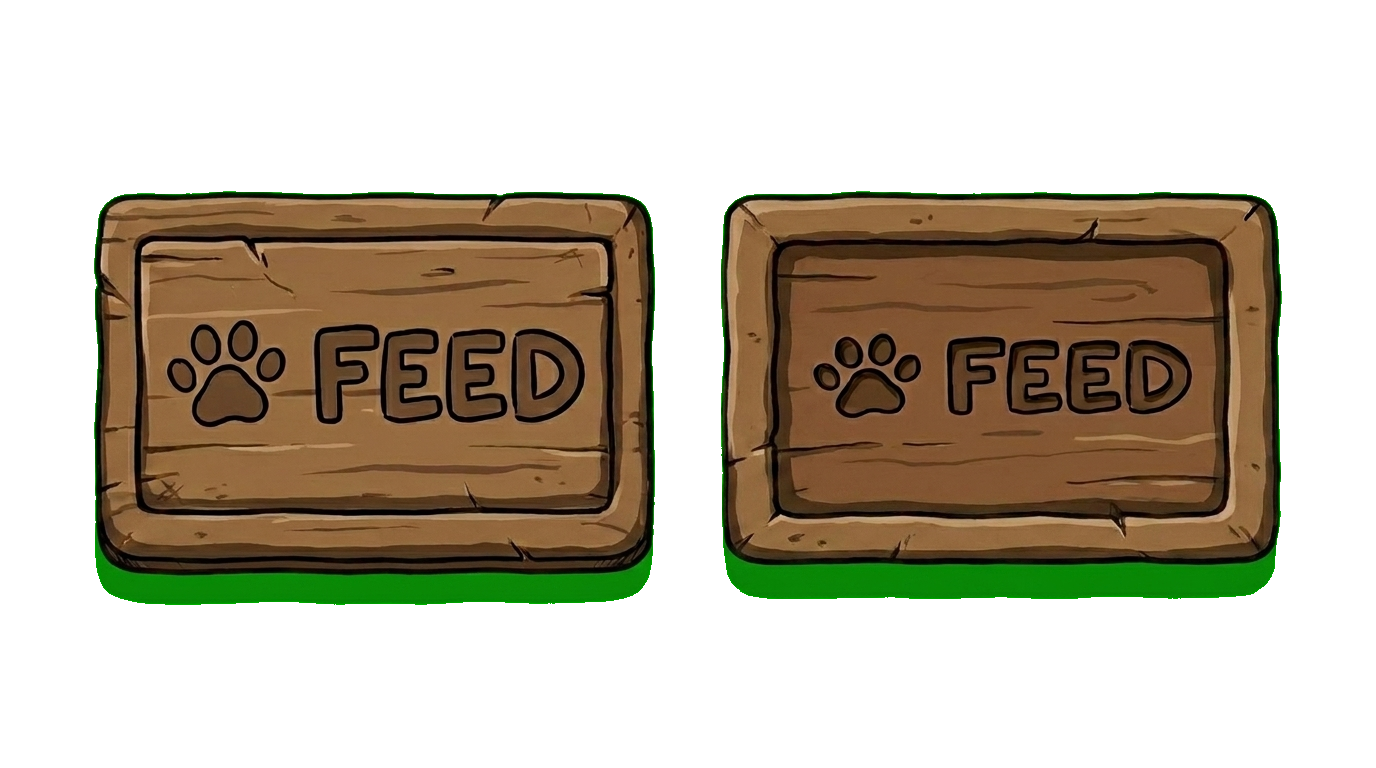
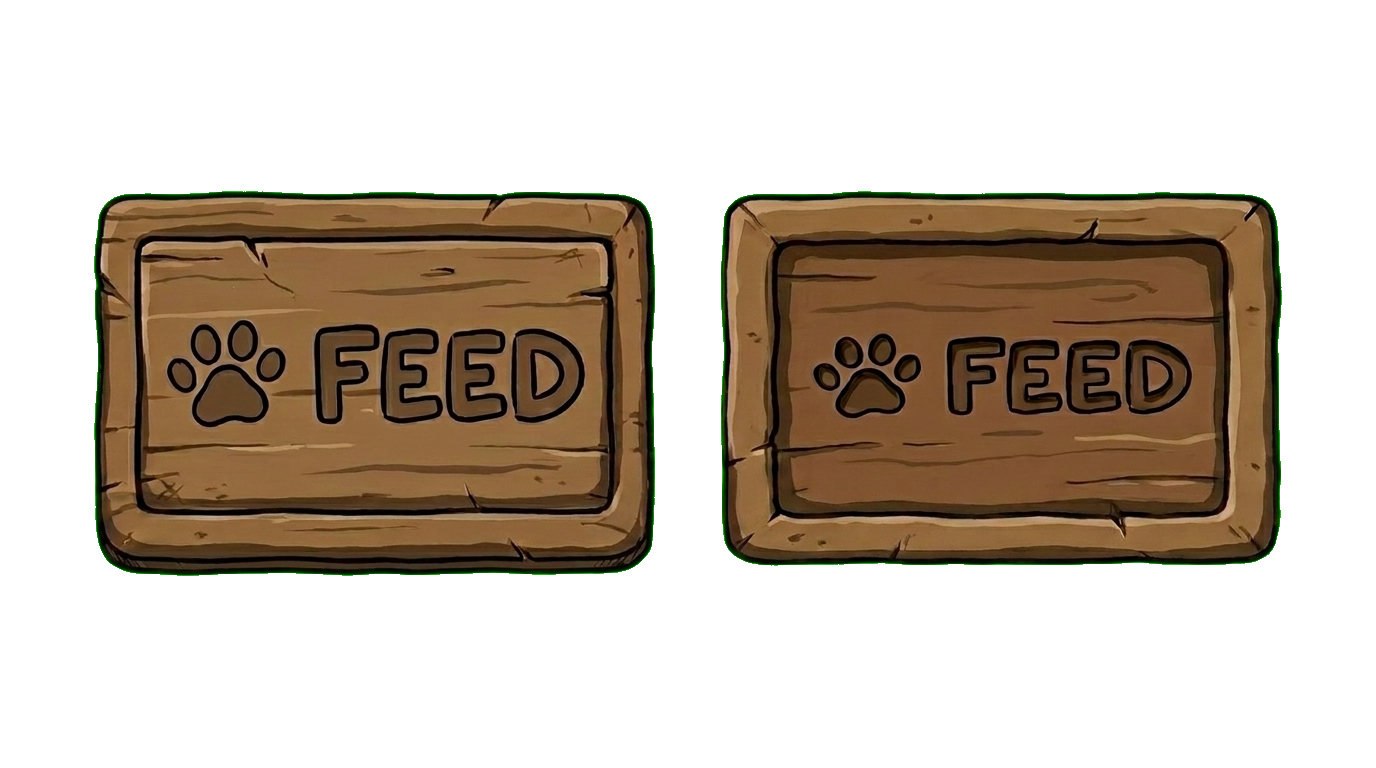
introduce emotions

Changed region(s): [[0.0625, 0.6875, 0.9375, 0.8125]]

diff --git a/src/game/scenes/PetScene.ts b/src/game/scenes/PetScene.ts
@@ -4,6 +4,7 @@ import {
   MODERN_FRAME_WIDTH,
   modernAmbientAnimationGroups,
   modernAmbientAnimations,
+  modernEmotionAnimations,
 } from '../data/generatedModernAssets';
 import { PetCareState, PetCareStore } from '../systems/PetCareStore';
 
@@ -98,6 +99,7 @@ export class PetScene extends Phaser.Scene {
   private careStore = new PetCareStore();
   private careState!: PetCareState;
   private ambientTimer?: Phaser.Time.TimerEvent;
+  private emotionTimer?: Phaser.Time.TimerEvent;
   private ambientPlacementByKey = createAmbientPlacementMap();
 
   constructor() {
@@ -124,7 +126,12 @@ export class PetScene extends Phaser.Scene {
   }
 
   private createPet(): void {
-    this.pet = this.add.sprite(PET_HOME.x, PET_HOME.y, 'ambient:happy', 0);
+    const initialKey = modernAmbientAnimations[0] ?? modernEmotionAnimations[0] ?? 'happy';
+    const ambientKeys = modernAmbientAnimations as readonly string[];
+    const initialTexture = ambientKeys.includes(initialKey)
+      ? `ambient:${initialKey}`
+      : `emotion:${initialKey}`;
+    this.pet = this.add.sprite(PET_HOME.x, PET_HOME.y, initialTexture, 0);
     this.pet.setOrigin(0.5, 1);
     this.pet.setScale(PET_SCALE);
     this.pet.setDepth(20);
@@ -341,12 +348,45 @@ export class PetScene extends Phaser.Scene {
   private enterAmbient(preferredKey?: string): void {
     this.mode = 'ambient';
     this.food.setVisible(false);
+    this.emotionTimer?.remove(false);
+    this.careState = this.careStore.applyDecay(this.careState);
+
+    if (!preferredKey && this.careState.food <= 0 && this.hasEmotion('sad')) {
+      this.playEmotion('sad');
+      return;
+    }
 
     const key = preferredKey ?? this.pickAmbientKey();
     this.currentAmbientKey = key;
     this.positionPetForAmbient(key);
     this.playPet(`ambient:${key}`);
     this.scheduleNextAmbient();
+  }
+
+  private hasEmotion(key: string): boolean {
+    const emotionKeys = modernEmotionAnimations as readonly string[];
+    return emotionKeys.includes(key);
+  }
+
+  private playEmotion(key: string): boolean {
+    if (!this.hasEmotion(key)) return false;
+    this.mode = 'ambient';
+    this.food.setVisible(false);
+    this.ambientTimer?.remove(false);
+    this.emotionTimer?.remove(false);
+    this.currentAmbientKey = `emotion:${key}`;
+    this.playPet(`emotion:${key}`);
+    this.updateDebugOverlay();
+    return true;
+  }
+
+  private playEmotionThenAmbient(key: string, duration = 2200): void {
+    if (!this.playEmotion(key)) {
+      this.enterAmbient();
+      return;
+    }
+
+    this.emotionTimer = this.time.delayedCall(duration, () => this.enterAmbient());
   }
 
   private showNextDebugAmbient(): void {
@@ -407,13 +447,7 @@ export class PetScene extends Phaser.Scene {
   }
 
   private pickAmbientKey(): string {
-    this.careState = this.careStore.applyDecay(this.careState);
-    if (this.careState.food <= 0 && modernAmbientAnimations.includes('sad')) {
-      return 'sad';
-    }
-
-    const candidates = modernAmbientAnimations.filter((key) => key !== 'sad');
-    return Phaser.Math.RND.pick([...candidates]);
+    return Phaser.Math.RND.pick([...modernAmbientAnimations]);
   }
 
   private scheduleNextAmbient(): void {
@@ -461,7 +495,7 @@ export class PetScene extends Phaser.Scene {
     this.time.delayedCall(4200, () => {
       this.careState = this.careStore.feed();
       this.feedButton.setInteractive({ useHandCursor: true });
-      this.enterAmbient('happy');
+      this.playEmotionThenAmbient('happy');
     });
   }
 
@@ -475,7 +509,7 @@ export class PetScene extends Phaser.Scene {
 
     this.time.delayedCall(3200, () => {
       this.feedButton.setInteractive({ useHandCursor: true });
-      this.enterAmbient('happy');
+      this.playEmotionThenAmbient('happy');
     });
   }
 

diff --git a/src/game/scenes/BootScene.ts b/src/game/scenes/BootScene.ts
@@ -6,12 +6,14 @@ import {
   modernActionGroups,
   modernAmbientAnimations,
   modernBackgrounds,
+  modernEmotionAnimations,
   modernFeedAssets,
   modernTouchAssets,
   modernUiAssets,
 } from '../data/generatedModernAssets';
 
 const ambientPath = (key: string) => `/assets/ambient/${key}.png`;
+const emotionPath = (key: string) => `/assets/emotions/${key}.png`;
 const actionPath = (group: string, key: string) => `/assets/actions/${group}/${key}.png`;
 const feedPath = (key: string) => `/assets/actions/feed/${key}.png`;
 const touchPath = (key: string) => `/assets/actions/touch/${key}.png`;
@@ -26,6 +28,13 @@ export class BootScene extends Phaser.Scene {
 
     for (const key of modernAmbientAnimations) {
       this.load.spritesheet(`ambient:${key}`, ambientPath(key), {
+        frameWidth: MODERN_FRAME_WIDTH,
+        frameHeight: MODERN_FRAME_HEIGHT,
+      });
+    }
+
+    for (const key of modernEmotionAnimations) {
+      this.load.spritesheet(`emotion:${key}`, emotionPath(key), {
         frameWidth: MODERN_FRAME_WIDTH,
         frameHeight: MODERN_FRAME_HEIGHT,
       });
@@ -75,6 +84,10 @@ export class BootScene extends Phaser.Scene {
   create(): void {
     for (const key of modernAmbientAnimations) {
       this.createLoop(`ambient:${key}`, 5);
+    }
+
+    for (const key of modernEmotionAnimations) {
+      this.createLoop(`emotion:${key}`, 5);
     }
 
     for (const [group, assets] of Object.entries(modernActionGroups)) {

diff --git a/src/game/data/generatedModernAssets.ts b/src/game/data/generatedModernAssets.ts
@@ -11,9 +11,7 @@ export const modernBackgrounds = {
 export const modernAmbientAnimations = [
   "brush-teeth",
   "draw",
-  "happy",
   "reading",
-  "sad",
   "think",
   "football",
   "sleepy",
@@ -26,9 +24,7 @@ export const modernAmbientAnimationGroups = {
   "default": [
     "brush-teeth",
     "draw",
-    "happy",
     "reading",
-    "sad",
     "think"
   ],
   "motion": [
@@ -45,6 +41,11 @@ export const modernAmbientAnimationGroups = {
     "drive"
   ]
 } as const;
+
+export const modernEmotionAnimations = [
+  "happy",
+  "sad"
+] as const;
 
 export const modernActionGroups = {
   "dance": {